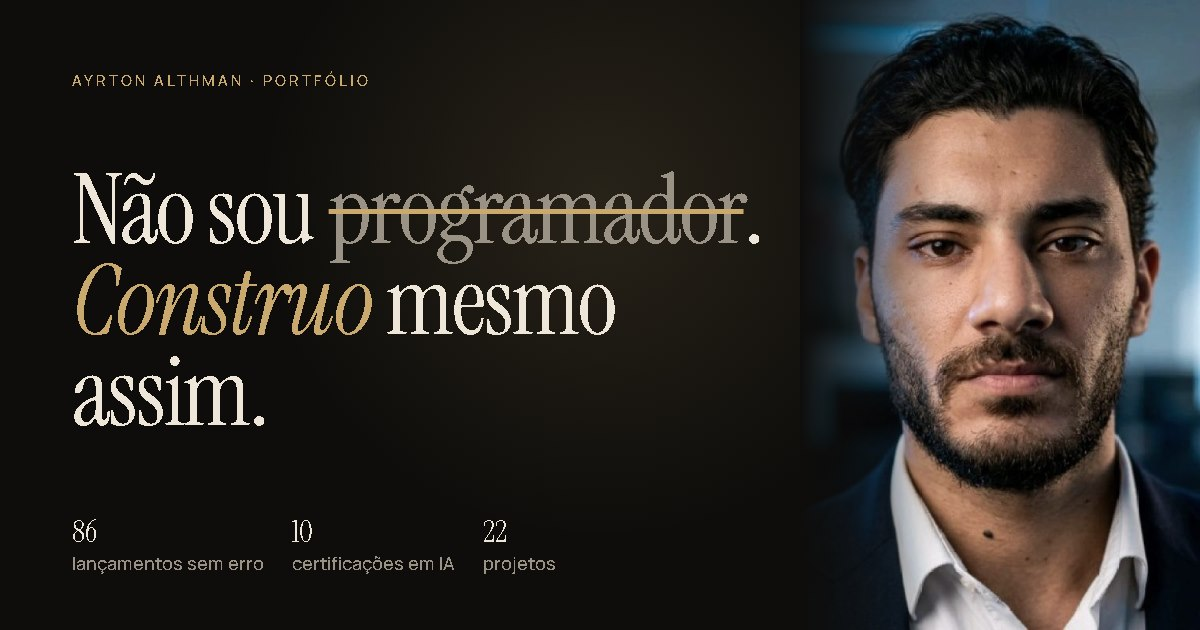
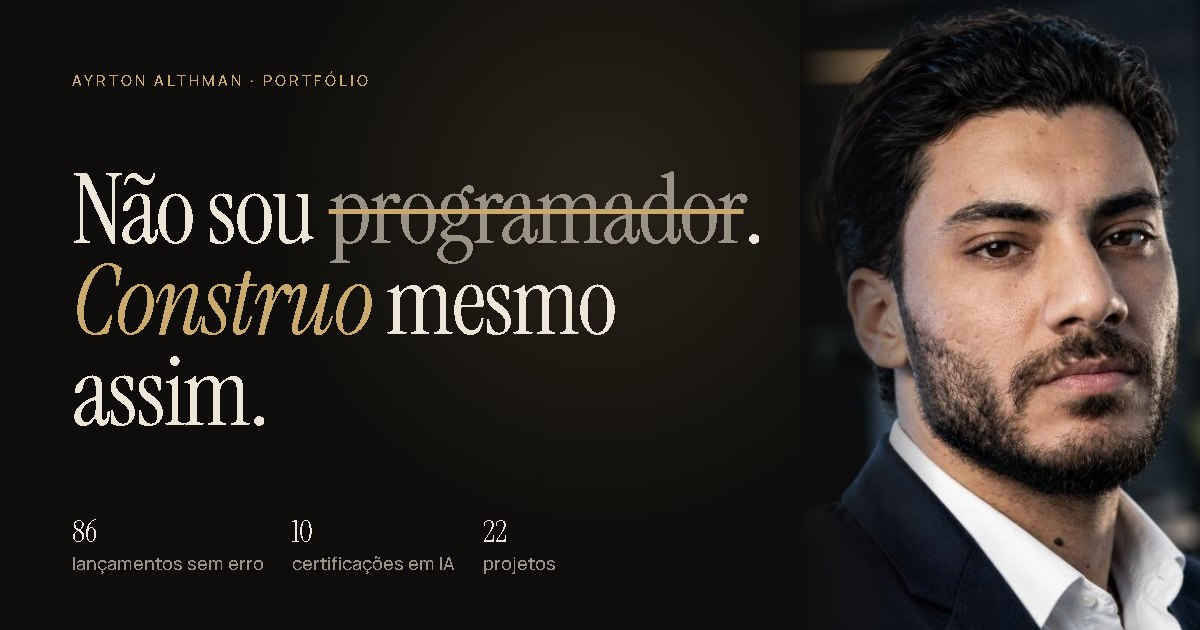
Foto nova no topo, foto de frente no contato e prévia atualizada

Changed region(s): [[0.6783, 0.0, 1.0, 1.0]]

diff --git a/index.html b/index.html
@@ -276,6 +276,9 @@ h4{font-size:11px;letter-spacing:.16em;text-transform:uppercase;color:var(--gold
 .contact h2{font-size:clamp(46px,8.4vw,110px);margin:var(--s4) auto var(--s4);max-width:1000px}
 .contact p{color:var(--muted);max-width:520px;margin:0 auto var(--s5)}
 .ch{display:flex;flex-wrap:wrap;justify-content:center;gap:var(--s3)}
+.avatar{display:flex;flex-direction:column;align-items:center;gap:var(--s3);margin-bottom:var(--s5)}
+.avatar img{width:120px;height:120px;border-radius:50%;object-fit:cover;object-position:center 30%;border:1px solid var(--gold);padding:4px;background:var(--bg);filter:grayscale(.15)}
+.avatar figcaption{font-size:13px;color:var(--muted)}
 footer{border-top:1px solid var(--line);padding:var(--s5) 0;color:var(--muted);font-size:12px}
 footer .wrap{display:grid;gap:var(--s3)}
 @media(min-width:768px){footer .wrap{grid-template-columns:1fr 2fr}}
@@ -321,7 +324,7 @@ footer .wrap{display:grid;gap:var(--s3)}
       </div>
     </div>
     <figure class="portrait rv">
-      <img src="assets/foto.jpg" alt="Foto de Ayrton Althman" width="800" height="800" onerror="this.remove()">
+      <img src="assets/foto-hero.jpg" alt="Ayrton Althman de terno escuro, em ângulo de três quartos, no escritório" width="640" height="640" fetchpriority="high" onerror="this.remove()">
       <div class="fallback" aria-hidden="true">AA</div>
       <figcaption><b>Ayrton Althman</b><span class="dot" aria-hidden="true"></span>Rio Grande do Sul · construindo o módulo 1 de 12 do mestrado em agentes</figcaption>
     </figure>
@@ -544,6 +547,7 @@ footer .wrap{display:grid;gap:var(--s3)}
 
 <section class="contact" id="contato">
   <div class="wrap">
+    <figure class="avatar rv"><img src="assets/foto.jpg" alt="Ayrton Althman de frente" width="800" height="800" loading="lazy"><figcaption><span class="dot" aria-hidden="true"></span>Quem responde é o Ayrton, não um robô</figcaption></figure>
     <span class="kicker rv">// contato</span>
     <h2 class="rv">Tem um processo que <em>devia</em> rodar sozinho?</h2>
     <p class="rv">Seja para falar de investimentos, de IA aplicada ao mercado ou de uma parceria, me chama. Eu respondo pessoalmente.</p>
